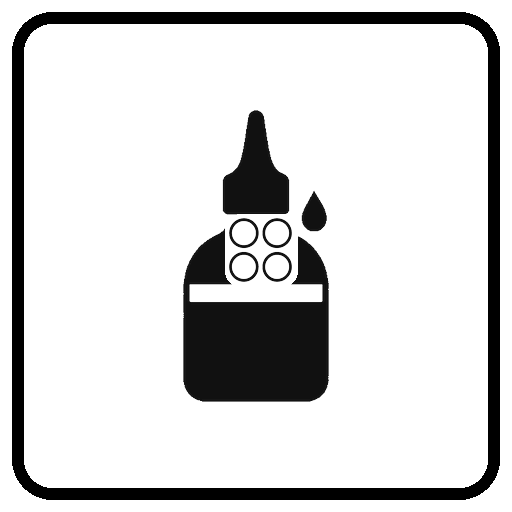
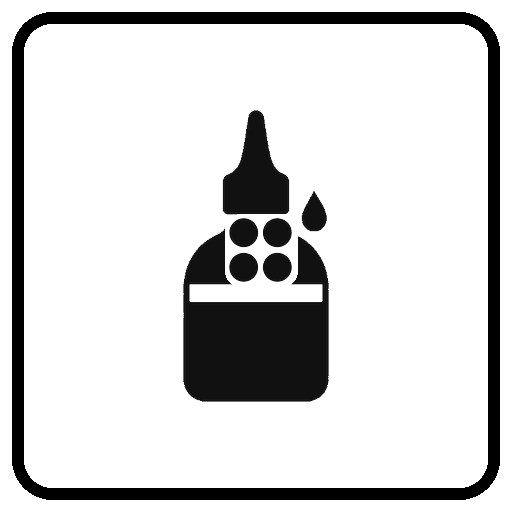
fix(sigil): 넷을 세는 그림만 속이 비어 있었다
qty_four 가 채워진 점 넷이 아니라 고리 넷이었다. 세는 그림에서 빈 고리는
0 으로 읽히고, 같은 세트의 하나·둘·셋·다섯은 모두 채워진 점이라 세트 안에서
혼자 규칙이 달랐다. qty_one 에서 한 번 고친 결함인데 나머지 넷의 not_like 에는
그 어휘가 없어 검사기가 통과시켰다 — 고리 넷도 "네 개" 로는 맞기 때문이다.

넷 모두에 rings/donuts/hollow circles 를 넣고 qty_four 를 다시 뽑았다.
자산 지문이 바뀌어 픽토그램 캐시 113장을 다시 렌더했다.

그리고 종이 서식 CLI 를 실제로 실행하는 테스트를 넣었다. 파서(102개)와
그것을 부르는 라우트는 각각 맞았는데 그 사이의 스크립트를 아무도 실행하지
않아, 성공한 판독마다 죽으면서 라우트가 그것을 parser_unavailable(501) 로
옮겨 적고 있었다. 코드가 틀린 것이 환경이 없는 것처럼 보이던 실패다.

Changed region(s): [[0.4375, 0.4062, 0.5625, 0.5625]]

diff --git a/public/sw.js b/public/sw.js
@@ -12,7 +12,7 @@
  *  - API        : 통과 (판정은 신선해야 하고, 오프라인 폴백은 앱 코드가 직접 처리한다)
  */
 
-const VERSION = 'snapcare-9deecb296fb5db3d';
+const VERSION = 'snapcare-14fec7778c364db1';
 const SHELL = `${VERSION}-shell`;
 const ASSETS = `${VERSION}-assets`;
 

diff --git a/pill_dispenser/form_sheet_parser/tests/test_parse_cli.py b/pill_dispenser/form_sheet_parser/tests/test_parse_cli.py
@@ -1,0 +1,62 @@
+"""The CLI contract, exercised the way the web app exercises it.
+
+The parser itself was well covered and the route that calls it was written
+correctly, but nothing ran the script in between. It crashed on every
+successful read — `**result` on a dataclass — and the route reported that as
+`parser_unavailable` (501), which reads like a missing interpreter rather than
+a bug. The feature had never worked end to end and the tests all passed.
+
+So these tests run the real script in a subprocess and check the stdout
+contract, because that string is the only thing the route ever sees.
+"""
+import json
+import subprocess
+import sys
+from pathlib import Path
+
+import cv2
+import numpy as np
+
+sys.path.insert(0, str(Path(__file__).resolve().parents[2]))
+
+from form_sheet_parser.synth import synth_photo  # noqa: E402
+
+SCRIPT = Path(__file__).resolve().parents[1] / "parse_cli.py"
+ANSWERS = {"layer": "3", "days": ["MON", "WED", "FRI"], "duration": "30d", "hour": "8"}
+
+
+def run(*args) -> tuple[int, dict]:
+    p = subprocess.run([sys.executable, str(SCRIPT), *args],
+                       capture_output=True, text=True)
+    return p.returncode, json.loads(p.stdout)
+
+
+def test_reads_a_photographed_sheet(tmp_path):
+    img = tmp_path / "sheet.png"
+    cv2.imwrite(str(img), synth_photo(ANSWERS, seed=7, coverage=0.85))
+
+    code, out = run(str(img))
+
+    assert code == 0
+    assert out["ok"] is True
+    assert out["values"] == ANSWERS
+    assert out["problems"] == []
+
+
+def test_missing_image_is_reported_as_json_not_a_traceback(tmp_path):
+    code, out = run(str(tmp_path / "nope.png"))
+
+    assert code == 1
+    assert out["ok"] is False
+    assert "could not read" in out["error"]
+
+
+def test_a_sheet_with_no_markers_says_so(tmp_path):
+    img = tmp_path / "blank.png"
+    cv2.imwrite(str(img), np.full((900, 700, 3), 255, np.uint8))
+
+    code, out = run(str(img))
+
+    assert code == 1
+    assert out["ok"] is False
+    assert "markers not found" in out["error"]

diff --git a/engine/gen_glyphs.py b/engine/gen_glyphs.py
@@ -717,7 +717,7 @@ TARGETS: list[Target] = [
         'qty_two', 'modifier', 'qty_two',
         'exactly two solid black circles side by side with a wide white gap between them, the same '
         'size, nothing else in the frame',
-        'one circle, three circles, a colon, an ellipsis',
+        'rings, donuts, hollow circles, outlined circles, one circle, three circles, a colon, an ellipsis',
         sparse=True, parts=2,
         means='two dots',
     ),
@@ -725,7 +725,7 @@ TARGETS: list[Target] = [
         'qty_three', 'modifier', 'qty_three',
         'exactly three solid black circles arranged in a triangle with wide white gaps between them, '
         'all the same size, nothing else in the frame',
-        'two circles, four circles, a cluster, a flower',
+        'rings, donuts, hollow circles, outlined circles, two circles, four circles, a cluster, a flower',
         sparse=True, parts=3,
         means='three dots',
     ),
@@ -733,7 +733,7 @@ TARGETS: list[Target] = [
         'qty_four', 'modifier', 'qty_four',
         'exactly four solid black circles arranged in a two by two square with wide white gaps '
         'between them, all the same size, nothing else in the frame',
-        'three circles, five circles, a die face, a window',
+        'rings, donuts, hollow circles, outlined circles, three circles, five circles, a die face, a window',
         sparse=True, parts=4,
         means='four dots',
     ),
@@ -741,7 +741,7 @@ TARGETS: list[Target] = [
         'qty_five', 'modifier', 'qty_five',
         'exactly five solid black circles arranged like the five face of a die, four at the corners '
         'and one in the middle, wide white gaps between them, nothing else in the frame',
-        'four circles, six circles, a flower, an X',
+        'rings, donuts, hollow circles, outlined circles, four circles, six circles, a flower, an X',
         sparse=True, parts=5,
         means='five dots',
     ),
